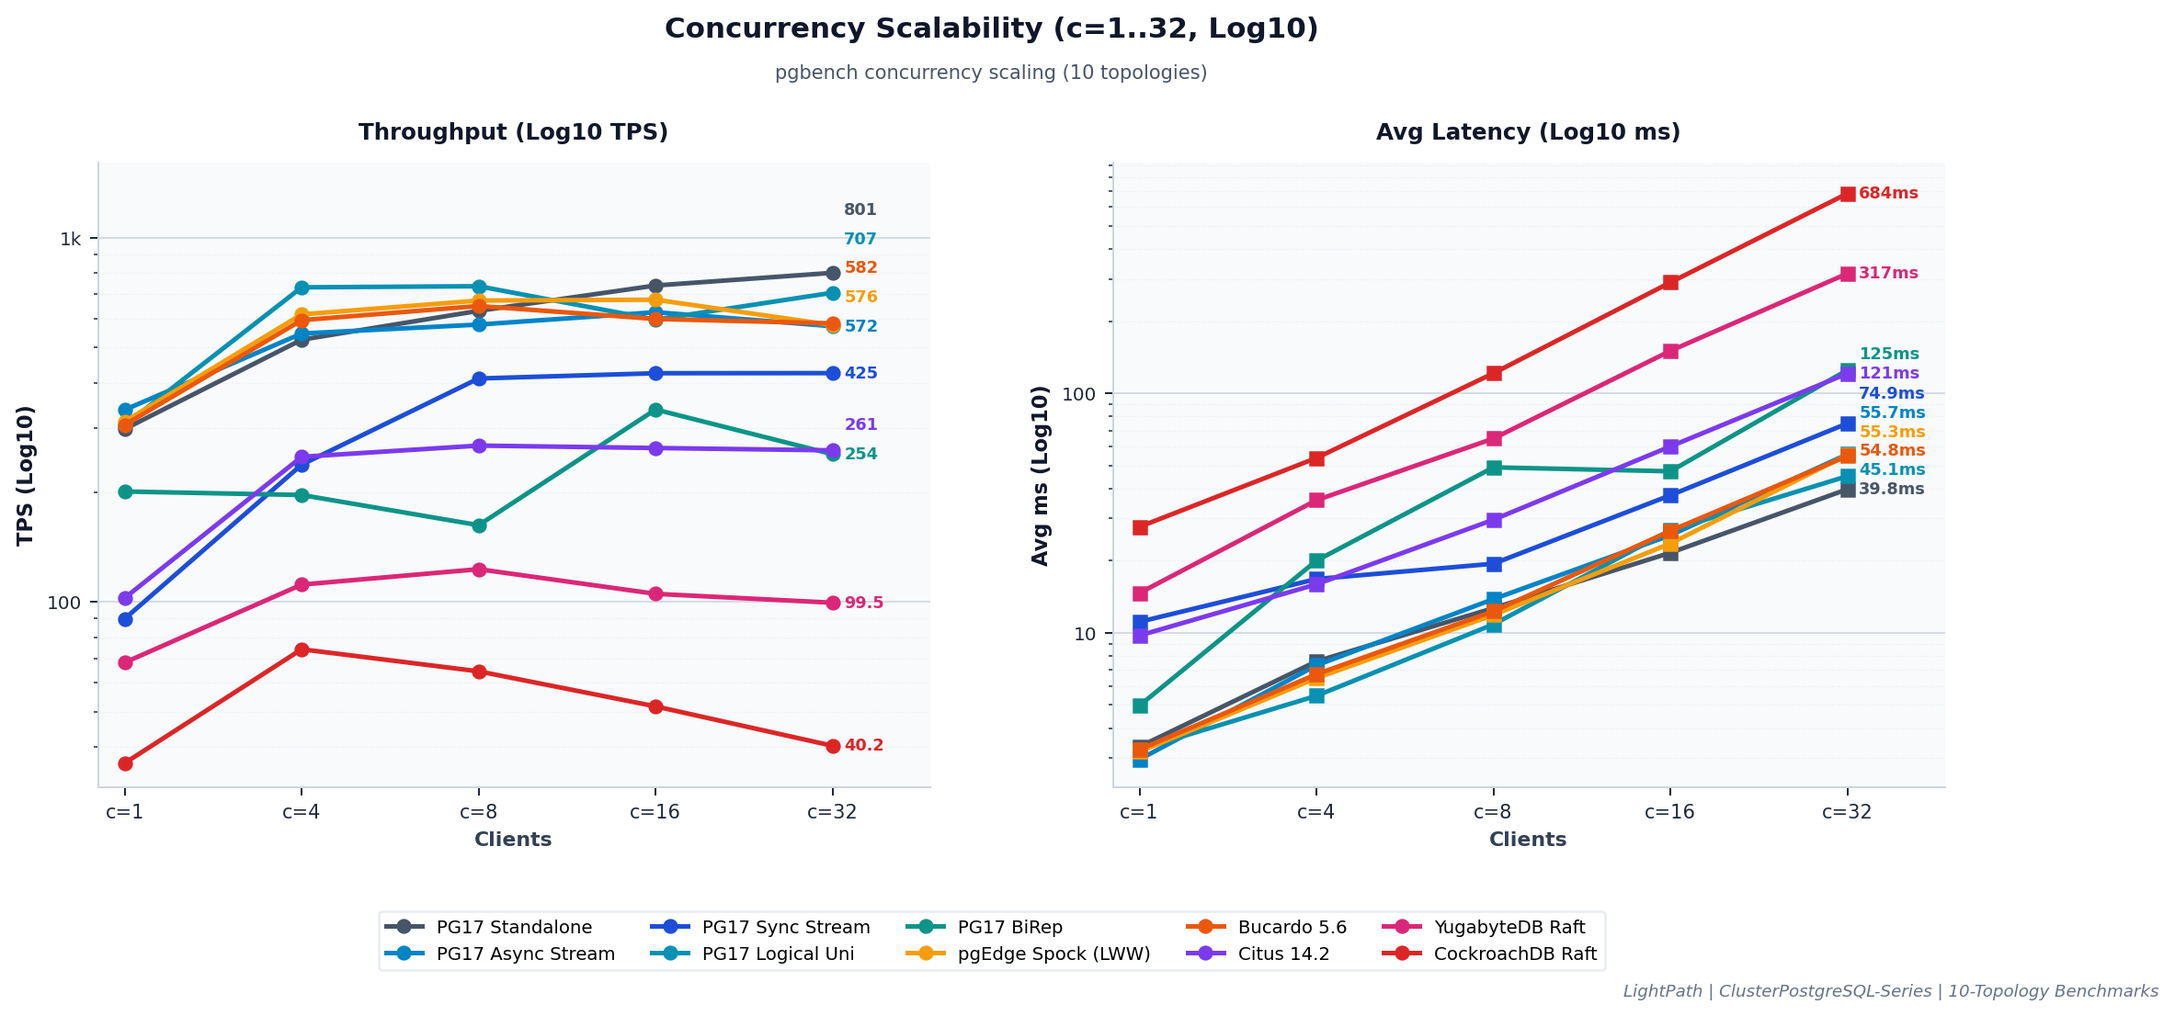
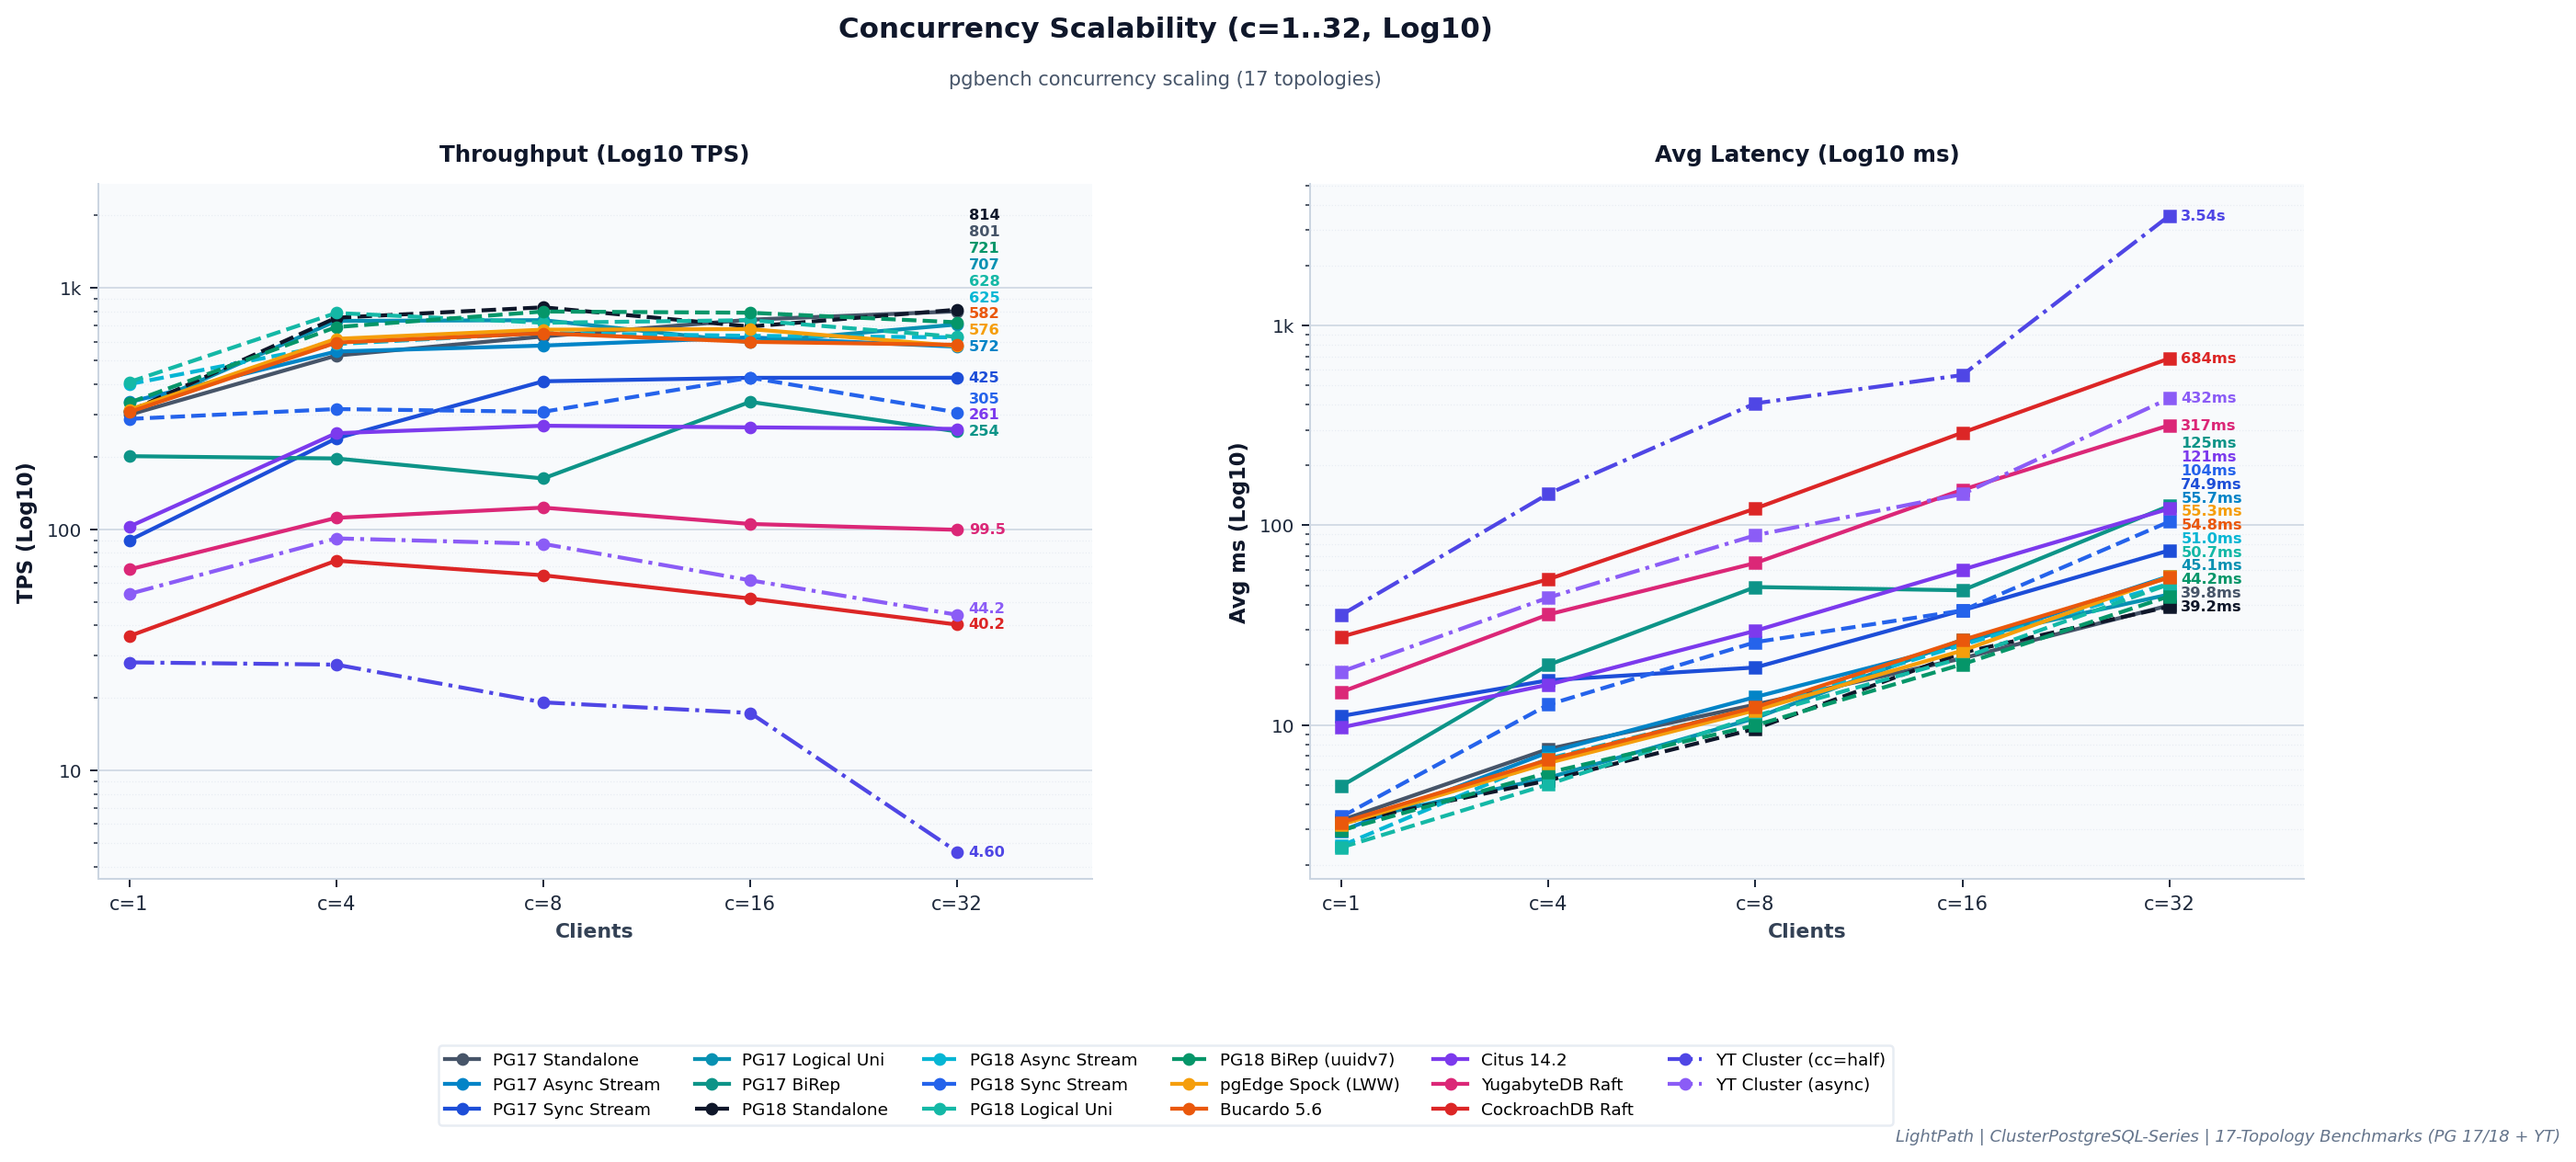
feat: expand charts 01-07 to all 17 PostgreSQL and YT Cluster topologies (#431)

diff --git a/scripts/generate_charts.py b/scripts/generate_charts.py
@@ -166,7 +166,7 @@ def chart_07(idx: dict) -> None:
     ad = [abs(d) for d in rd]
     oks = [d == 0 and not any(k in r.get("convergence_status", "") for k in ("DIVERGED", "LOST_UPDATE")) for d, r in zip(ad, dr)]
     ys = list(range(len(topos)))
-    fig, (a1, a2) = plt.subplots(1, 2, figsize=(14.4, 6.6), sharey=True)
+    fig, (a1, a2) = plt.subplots(1, 2, figsize=(15.8, 8.6), sharey=True)
     for ax, xl, ti in ((a1, "Suite D TPS (Log10)", "Hot-Row TPS (Green=0 Drift, Red=Loss)"), (a2, "Abs Drift |delta| (Log10)", "Silent Drift (50-Key Contention)")):
         ax.set_xscale("log")
         ax.xaxis.set_major_formatter(FuncFormatter(ftick))
@@ -174,52 +174,47 @@ def chart_07(idx: dict) -> None:
         ax.set_xlabel(xl, fontsize=9)
         ax.set_title(ti, fontsize=9.6, pad=8)
     a1.barh(ys, tps, color=["#16a34a" if ok else "#dc2626" for ok in oks], ec="#fff", height=0.64)
-    a1.set_xlim(100, max(tps) * 8.0)
+    a1.set_xlim(10, max(tps) * 11.0)
     a1.set_yticks(ys)
-    a1.set_yticklabels([LBL.get(t, t) for t in topos], fontsize=8.4, weight="semibold")
+    a1.set_yticklabels([LBL.get(t, t) for t in topos], fontsize=8.2, weight="semibold")
     a1.invert_yaxis()
     for y, v, ok in zip(ys, tps, oks):
-        a1.text(v * 1.12, y, f"{fval(v)} TPS ({'0 drift' if ok else 'LOST'})", va="center", fontsize=7.6, color="#166534" if ok else "#991b1b", weight="bold")
+        a1.text(v * 1.12, y, f"{fval(v)} TPS ({'0 drift' if ok else 'LOST'})", va="center", fontsize=7.3, color="#166534" if ok else "#991b1b", weight="bold")
     a2.barh(ys, [d or 0 for d in ad], color=["#dc2626" if d > 0 else "#16a34a" for d in ad], ec="#fff", height=0.64)
     a2.set_xlim(1, max(max(ad), 1e3) * 18.0)
     for y, r, d in zip(ys, rd, ad):
-        a2.text(1.5 if d == 0 else d * 1.25, y, "0 (EXACT)" if d == 0 else f"{'-' if r < 0 else '+'}{int(d):,} drift", va="center", fontsize=7.7, color="#166534" if d == 0 else "#991b1b", weight="bold")
-    fig.subplots_adjust(top=0.85, bottom=0.13, wspace=0.07)
-    save_fig(fig, "chart_07_integrity_vs_throughput.png", "Suite D Integrity vs Throughput (LWW vs delta_apply & Raft)", "Async LWW masks silent loss; delta_apply, streaming, logical & Raft keep 0 drift")
+        a2.text(1.5 if d == 0 else d * 1.25, y, "0 (EXACT)" if d == 0 else f"{'-' if r < 0 else '+'}{int(d):,} drift", va="center", fontsize=7.4, color="#166534" if d == 0 else "#991b1b", weight="bold")
+    fig.subplots_adjust(top=0.85, bottom=0.11, wspace=0.07)
+    save_fig(fig, "chart_07_integrity_vs_throughput.png", "Suite D Integrity vs Throughput (LWW vs delta_apply, YT & Raft)", "Async LWW masks silent loss; delta_apply, YT Cluster, streaming, logical & Raft keep 0 drift")
 
 
 def main() -> None:
     idx, su = load_data()
     topos = get_topos(idx)
     e1 = "E1_sysbench_oltp_rw" if "E1_sysbench_oltp_rw" in su else ("E_sysbench_oltp_rw" if "E_sysbench_oltp_rw" in su else "")
-    pick = lambda q: [s for s in q if s and s in su]
-    s_core = pick(("A_single_rw", "B1_disjoint_rw", "C_multinode_ro", e1, "H_append_only_insert"))
-    s_lat = pick(("A_single_rw", "B1_disjoint_rw", "C_multinode_ro", e1, "F_wan_netem_25ms"))
-    s_sb = pick((e1, "E2_sysbench_oltp_ro", "E3_sysbench_oltp_wo", "E4_sysbench_point_select"))
+    pk = lambda q: [s for s in q if s and s in su]
+    sc = pk(("A_single_rw", "B1_disjoint_rw", "C_multinode_ro", e1, "H_append_only_insert"))
+    sl = pk(("A_single_rw", "B1_disjoint_rw", "C_multinode_ro", e1, "F_wan_netem_25ms"))
+    sb = pk((e1, "E2_sysbench_oltp_ro", "E3_sysbench_oltp_wo", "E4_sysbench_point_select"))
     specs = [
-        ("chart_01_tps_log_all_suites.png", (1, 1), (15.0, 6.4), {"top": 0.83, "bottom": 0.20}, "PostgreSQL 10-Topology Throughput (Log10)", "Core pgbench, Sysbench & Append-Only TPS",
-         [(s_core, "tps", "TPS (Log10)", "Core Workloads (All 10 Topologies)")]),
-        ("chart_02_latency_log_all_suites.png", (2, 1), (15.0, 10.0), {"top": 0.84, "bottom": 0.10, "hspace": 0.54}, "Average and p95 Latency (Log10)", "Log10 separates sub-ms reads from WAN consensus",
-         [(s_lat, "lat_avg_ms", "Avg ms (Log10)", "Average Latency (ms)"), (s_lat, "lat_p95_ms", "p95 ms (Log10)", "p95 Latency (ms)")]),
-        ("chart_05_sysbench_profile_log.png", (1, 2), (15.6, 6.2), {"top": 0.82, "bottom": 0.23, "wspace": 0.20}, "Sysbench OLTP Profile E1-E4 (Log10)", "OLTP RW/RO/WO & Point-Select (10 topologies)",
-         [(s_sb, "tps", "Sysbench TPS (Log10)", "Sysbench TPS (E1-E4)"), (s_sb, "lat_p95_ms", "p95 ms (Log10)", "Sysbench p95 (E1-E4)")]),
-        ("chart_06_streaming_vs_logical_vs_mm.png", (1, 2), (15.4, 6.2), {"top": 0.82, "bottom": 0.23, "wspace": 0.20}, "Streaming vs Logical vs Multi-Master & DistSQL (Log10)", "10-topology tier comparison from PG17 to Raft",
-         [(pick(("A_single_rw", "C_multinode_ro", "F_wan_netem_25ms")), "tps", "TPS (Log10)", "TPS by Tier (LAN / RO / WAN 25ms)"),
-          (pick(("A_single_rw", "F_wan_netem_25ms")), "lat_p95_ms", "p95 ms (Log10)", "p95 Latency (LAN vs WAN 25ms)")]),
+        ("chart_01_tps_log_all_suites.png", (1, 1), (19.8, 6.8), {"top": 0.83, "bottom": 0.22}, "PostgreSQL 17-Topology Throughput (Log10)", "Core pgbench, Sysbench & Append-Only TPS (PG 17/18 + YT Cluster)", [(sc, "tps", "TPS (Log10)", "Core Workloads (All 17 Topologies)")]),
+        ("chart_02_latency_log_all_suites.png", (2, 1), (19.6, 10.6), {"top": 0.84, "bottom": 0.11, "hspace": 0.56}, "Average and p95 Latency Across 17 Topologies (Log10)", "Log10 separates sub-ms reads from sync/2PC/Raft WAN consensus", [(sl, "lat_avg_ms", "Avg ms (Log10)", "Average Latency (ms)"), (sl, "lat_p95_ms", "p95 ms (Log10)", "p95 Latency (ms)")]),
+        ("chart_05_sysbench_profile_log.png", (1, 2), (21.0, 6.6), {"top": 0.82, "bottom": 0.24, "wspace": 0.16}, "Sysbench OLTP Profile E1-E4 (Log10)", "OLTP RW/RO/WO & Point-Select (17 topologies)", [(sb, "tps", "Sysbench TPS (Log10)", "Sysbench TPS (E1-E4)"), (sb, "lat_p95_ms", "p95 ms (Log10)", "Sysbench p95 (E1-E4)")]),
+        ("chart_06_streaming_vs_logical_vs_mm.png", (1, 2), (21.0, 6.6), {"top": 0.82, "bottom": 0.24, "wspace": 0.16}, "Streaming vs Logical vs Multi-Master & YT Cluster (Log10)", "17-topology comparison across PG 17, PG 18.6, YT Cluster 1.21.3 & Raft", [(pk(("A_single_rw", "C_multinode_ro", "F_wan_netem_25ms")), "tps", "TPS (Log10)", "TPS by Tier (LAN / RO / WAN 25ms)"), (pk(("A_single_rw", "F_wan_netem_25ms")), "lat_p95_ms", "p95 ms (Log10)", "p95 Latency (LAN vs WAN 25ms)")]),
     ]
     for fn, (nr, nc), fsz, adj, ti, sub, panels in specs:
         fig, axes = plt.subplots(nr, nc, figsize=fsz)
-        for ax, (sl, fld, yl, pti) in zip([axes] if nr * nc == 1 else list(axes.flat), panels):
-            draw_bars(ax, topos, sl, idx, fld, yl, pti)
+        for ax, (p, fld, yl, pti) in zip([axes] if nr * nc == 1 else list(axes.flat), panels):
+            draw_bars(ax, topos, p, idx, fld, yl, pti)
         fig.subplots_adjust(**adj)
         save_fig(fig, fn, ti, sub)
     cm = {int(m.group(1)): s for s in su if (m := re.match(r"^G_conc_c?(\d+)$", s))}
     cs = sorted(cm)
     xl, seq = ([f"c={c}" for c in cs], [cm[c] for c in cs]) if cm else (["c=8", "c=16"], ["A_single_rw", "C_multinode_ro"])
-    draw_sweep(idx, xl, seq, "Clients", "chart_03_concurrency_sweep_log.png", "Concurrency Scalability (c=1..32, Log10)", "pgbench concurrency scaling (10 topologies)", bool(cm))
+    draw_sweep(idx, xl, seq, "Clients", "chart_03_concurrency_sweep_log.png", "Concurrency Scalability (c=1..32, Log10)", "pgbench concurrency scaling (17 topologies)", bool(cm))
     rm = {0: "A_single_rw", **{int(m.group(1)): s for s in su if (m := re.match(r"^F_wan_netem_(\d+)ms$", s))}}
     rtts = sorted(rm)
-    draw_sweep(idx, [f"{r} ms" for r in rtts], [rm[r] for r in rtts], "Delay (tc netem)", "chart_04_wan_netem_sweep_log.png", "WAN Latency Sensitivity (0-50ms, Log10)", "Sync/2PC/Raft collapse; async stays flat", True)
+    draw_sweep(idx, [f"{r} ms" for r in rtts], [rm[r] for r in rtts], "Delay (tc netem)", "chart_04_wan_netem_sweep_log.png", "WAN Latency Sensitivity (0-50ms, Log10)", "Sync/2PC/Raft collapse; async stays flat (17 topologies)", True)
     chart_07(idx)
     print(f"Rendered 7 charts ({len(topos)} topologies x {len(su)} suites).")
 

diff --git a/docs/ACTION_LOGBOOK.md b/docs/ACTION_LOGBOOK.md
@@ -24,6 +24,10 @@
 
 ## 2. Completed Actions (`COMPLETED`)
 
+### ACT-175 - Expand Charts 01-07 to All 17 PostgreSQL & YT Cluster Topologies (`#431`)
+- **Date**: `2026-11-21` | **Status**: `COMPLETED` | **Issue / Branch**: `#431` (`feat/issue-431-expand-charts-01-07`)
+- **Request / Changes / Result**: Updated `chart_07` (`xlim(10, ...)`, 18 bars) and 17-topology `specs` in `scripts/generate_charts.py`, regenerated `assets/charts/chart_01..07_*.png` at 180 DPI with zero overlap; `make test` (`21/21` OK) and `make lint` pass.
+
 ### ACT-174 - Extract 18-Topology Chart Metadata & Update Chart Helpers (`#428`)
 - **Date**: `2026-11-21` | **Status**: `COMPLETED` | **Issue / Branch**: `#428` (`refactor/issue-428-chart-meta-helpers`)
 - **Request / Changes / Result**: Extracted 18-topology palette, 6 CSVs, and suite labels into `scripts/chart_meta.py` (`2,087` B), updated `save_fig`/`draw_bars`/`draw_sweep` in `scripts/generate_charts.py`; verified `py_compile`, `make test` (`21/21` OK), and `make lint`.
